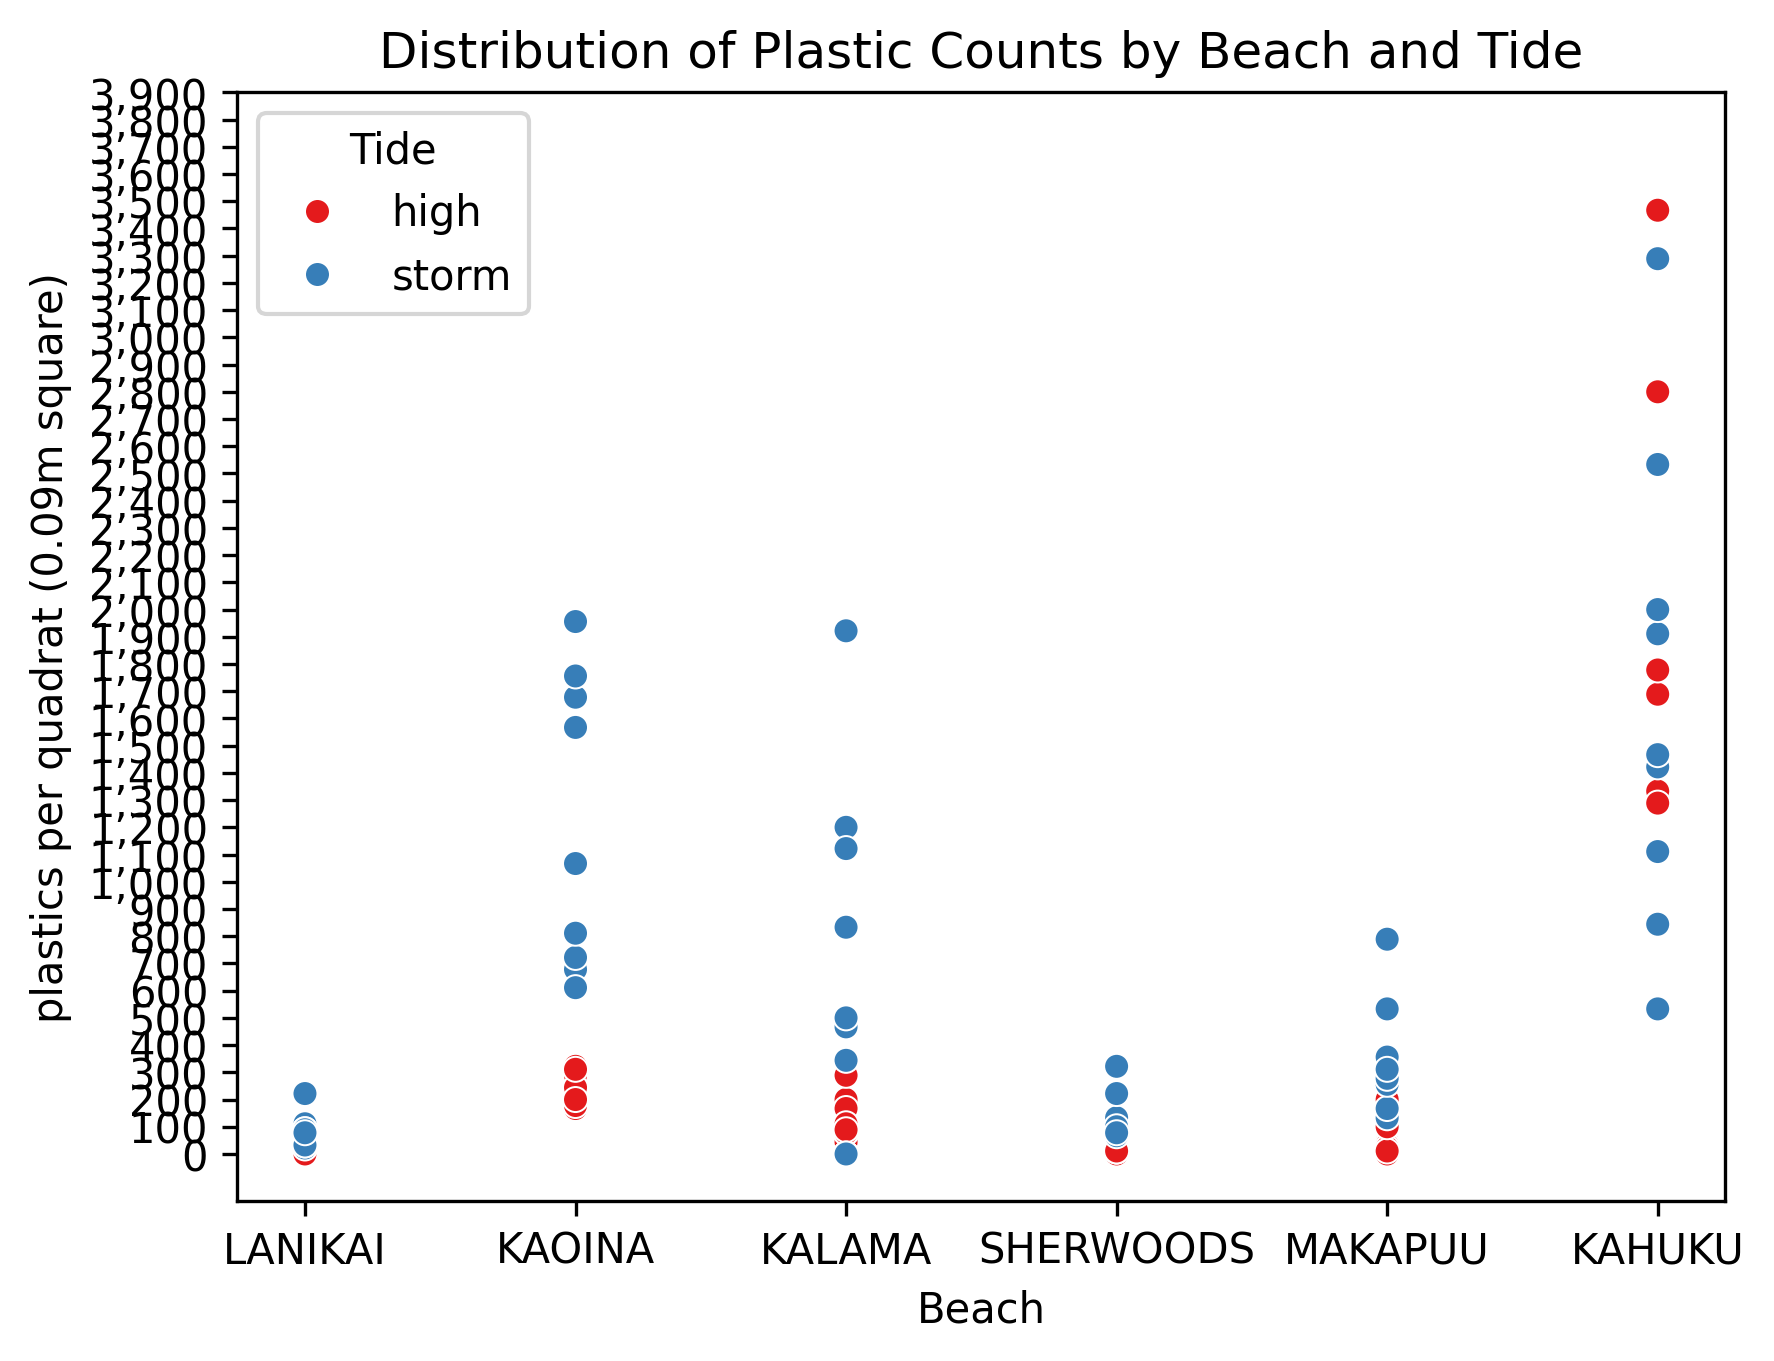
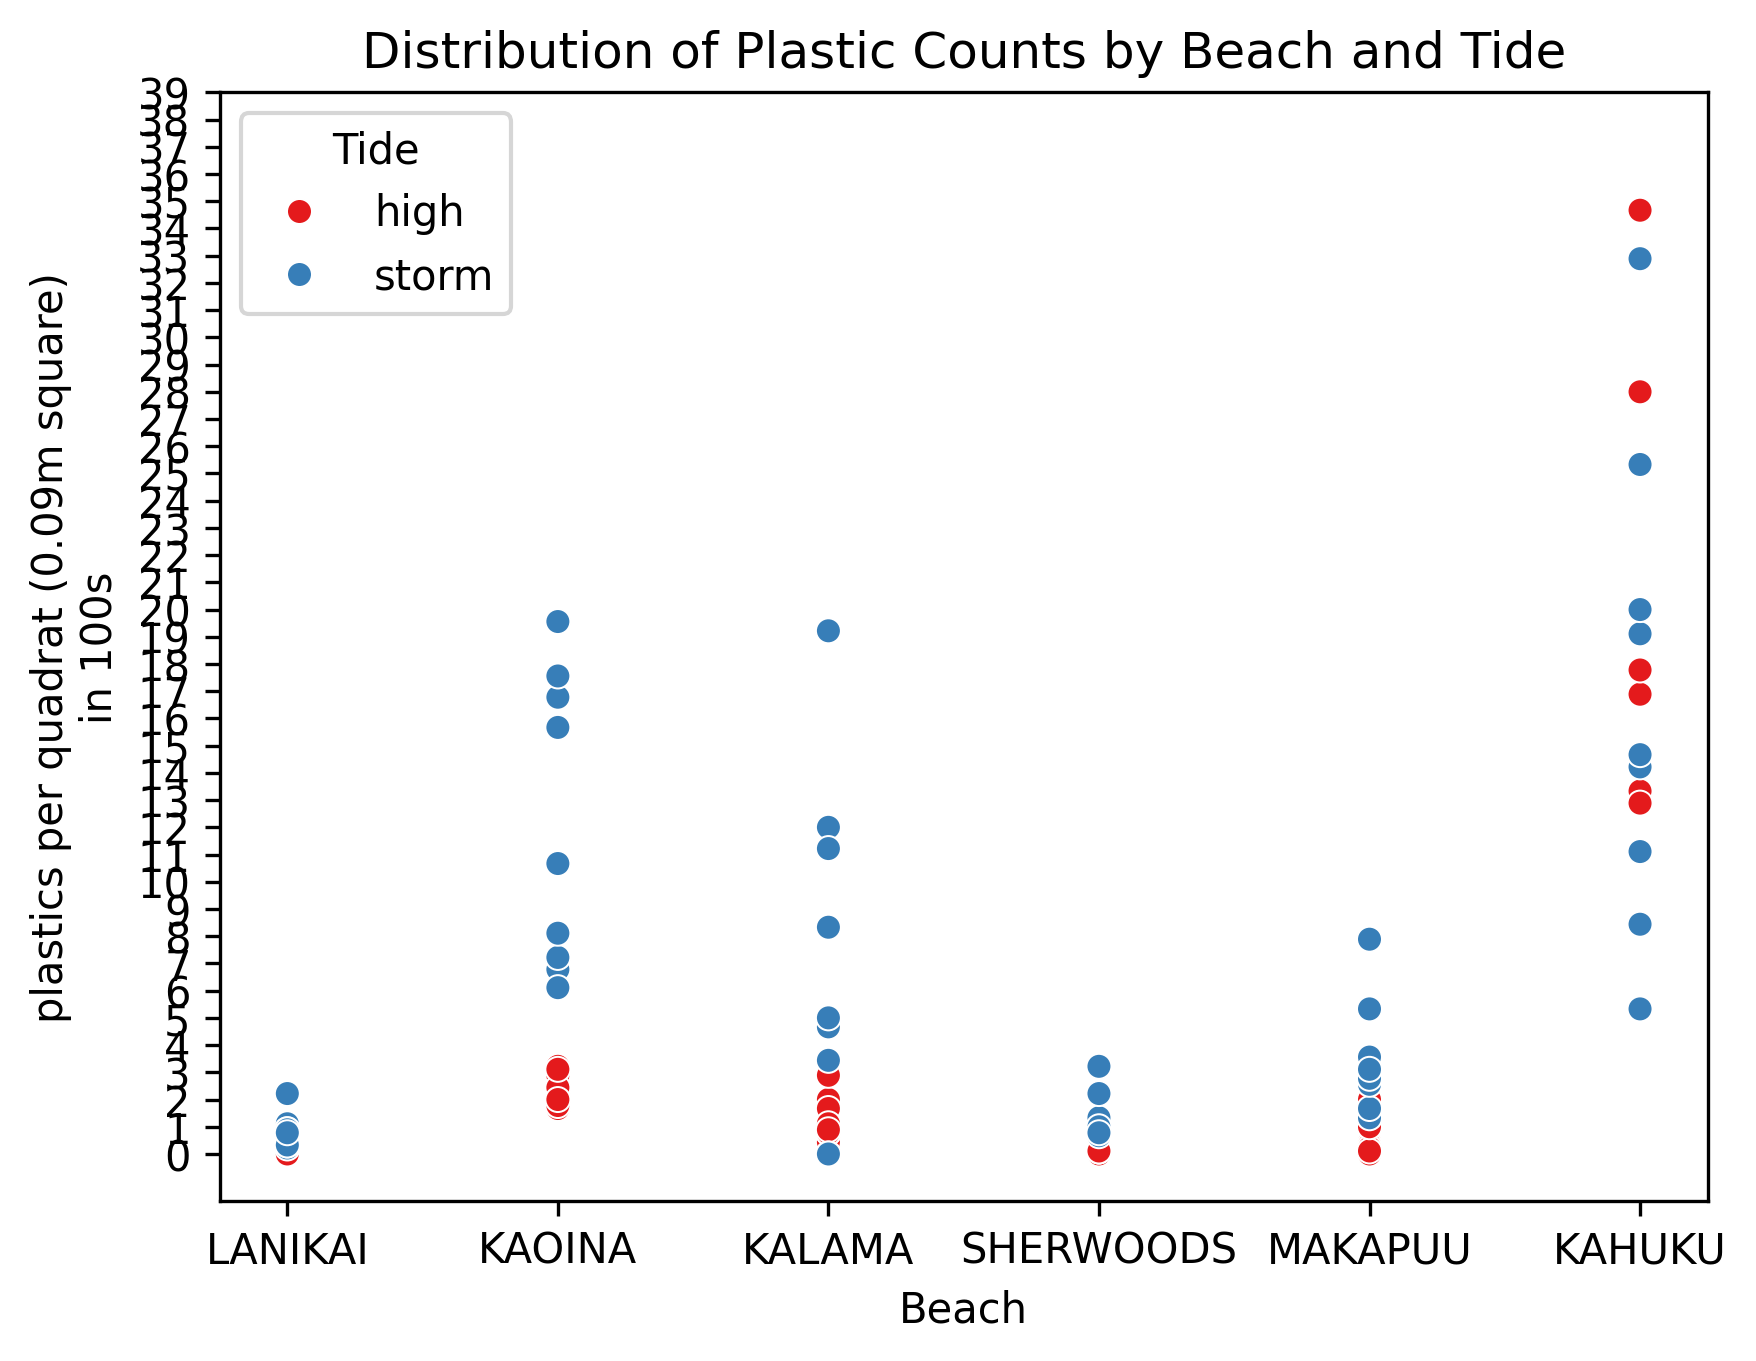
Trimmed unnecessary plots

diff --git a/plastic_counts_by_beach.py b/plastic_counts_by_beach.py
@@ -20,7 +20,7 @@ bins = np.arange(0,3501,50)
     #plt.hist("plastics per quadrat (0.09m square)",bins=np.arange(0,3501,50),data=data__particles_per_quad[(data__particles_per_quad["Tide"].isin(["high"])) & (data__particles_per_quad["Beach"].isin([b]))],label=b)
     #plt.hist("plastics per quadrat (0.09m square)",bins=np.arange(0,3501,50),data=data__particles_per_quad[(data__particles_per_quad["Tide"].isin(["high"])) & (data__particles_per_quad["Beach"].isin([b]))],label=b)
 
-for t in sorted(list(set(data__particles_per_quad["Tide"].to_numpy()))):
+'''for t in sorted(list(set(data__particles_per_quad["Tide"].to_numpy()))):
     #sns.histplot(data=data__particles_per_quad[(data__particles_per_quad["Tide"].isin([t]))],x="plastics per quadrat (0.09m square)", bins=bins,hue="Beach",multiple="dodge",palette="Set1",edgecolor='black')#, color="#93A8BF")
     sns.scatterplot(data=data__particles_per_quad[(data__particles_per_quad["Tide"].isin([t]))],x="Beach",y="plastics per quadrat (0.09m square)",hue="Beach",palette="Set1")
     #ticks = np.arange(0,4_000,100)
@@ -31,17 +31,30 @@ for t in sorted(list(set(data__particles_per_quad["Tide"].to_numpy()))):
     plt.title(f"Distribution of Plastic Counts by Beach at {t} Tide\nI")
     #plt.legend()
     plt.savefig(f"Distribution of Plastic Counts at {t} Tide by Beach.png",dpi=300, bbox_inches="tight")
-    #plt.show()
+    #plt.show()'''
     
-'''#for t in sorted(list(set(data__particles_per_quad["Tide"].to_numpy()))):
+#for t in sorted(list(set(data__particles_per_quad["Tide"].to_numpy()))):
     #sns.histplot(data=data__particles_per_quad[(data__particles_per_quad["Tide"].isin([t]))],x="plastics per quadrat (0.09m square)", bins=bins,hue="Beach",multiple="dodge",palette="Set1",edgecolor='black')#, color="#93A8BF")
 sns.scatterplot(data=data__particles_per_quad,x="Beach",y="plastics per quadrat (0.09m square)",hue="Tide",palette="Set1")
     #ticks = np.arange(0,4_000,100)
 y_ticks = np.arange(0,4_000,100)
     #plt.xticks(ticks,[f"{x/100:,.0f}" for x in ticks])
-plt.yticks(y_ticks,[f"{x:,}" for x in y_ticks])
+plt.yticks(y_ticks,[f"{x/100:,.0f}" for x in y_ticks])
+plt.ylabel(f"plastics per quadrat (0.09m square)\nin 100s")
 #plt.xlabel("Beach")
 plt.title(f"Distribution of Plastic Counts by Beach and Tide")
 #plt.legend()
 plt.savefig(f"Distribution of Plastic Counts by Beach and Tide.png",dpi=300, bbox_inches="tight")
-#plt.show()'''
+#plt.show()
+
+'''for b in sorted(list(set(data__particles_per_quad["Beach"].to_numpy()))):
+    sns.scatterplot(data=data__particles_per_quad[data__particles_per_quad["Beach"]==b],x="Beach",y="plastics per quadrat (0.09m square)",hue="Tide",palette="Set1")
+    y_ticks = np.arange(0,4_000,100)
+    #plt.xticks(ticks,[f"{x/100:,.0f}" for x in ticks])
+    plt.yticks(y_ticks,[f"{x/100:,.0f}" for x in y_ticks])
+    plt.ylabel(f"plastics per quadrat (0.09m square)\nin 100s")
+    #plt.xlabel("Beach")
+    plt.title(f"Distribution of Plastic Counts at {b} Beach")
+    #plt.legend()
+    plt.savefig(f"Distribution of Plastic Counts at {b} Beach.png",dpi=300, bbox_inches="tight")
+    #plt.show()'''

diff --git a/plastic_counts_by_water_level.py b/plastic_counts_by_water_level.py
@@ -31,5 +31,5 @@ for b in sorted(list(set(data__particles_per_quad["Beach"].to_numpy()))):
     plt.xlabel("plastics per quadrat (0.09m square)\n(in 100s)")
     plt.title(f"Distribution of Plastic Counts for {b} Beach")
     #plt.legend()
-    plt.savefig(f"plastics_hist_{b}_High_vs_Storm.png", dpi=300, bbox_inches="tight")
-    #plt.show()
+    #plt.savefig(f"plastics_hist_{b}_High_vs_Storm.png", dpi=300, bbox_inches="tight")
+    plt.show()
